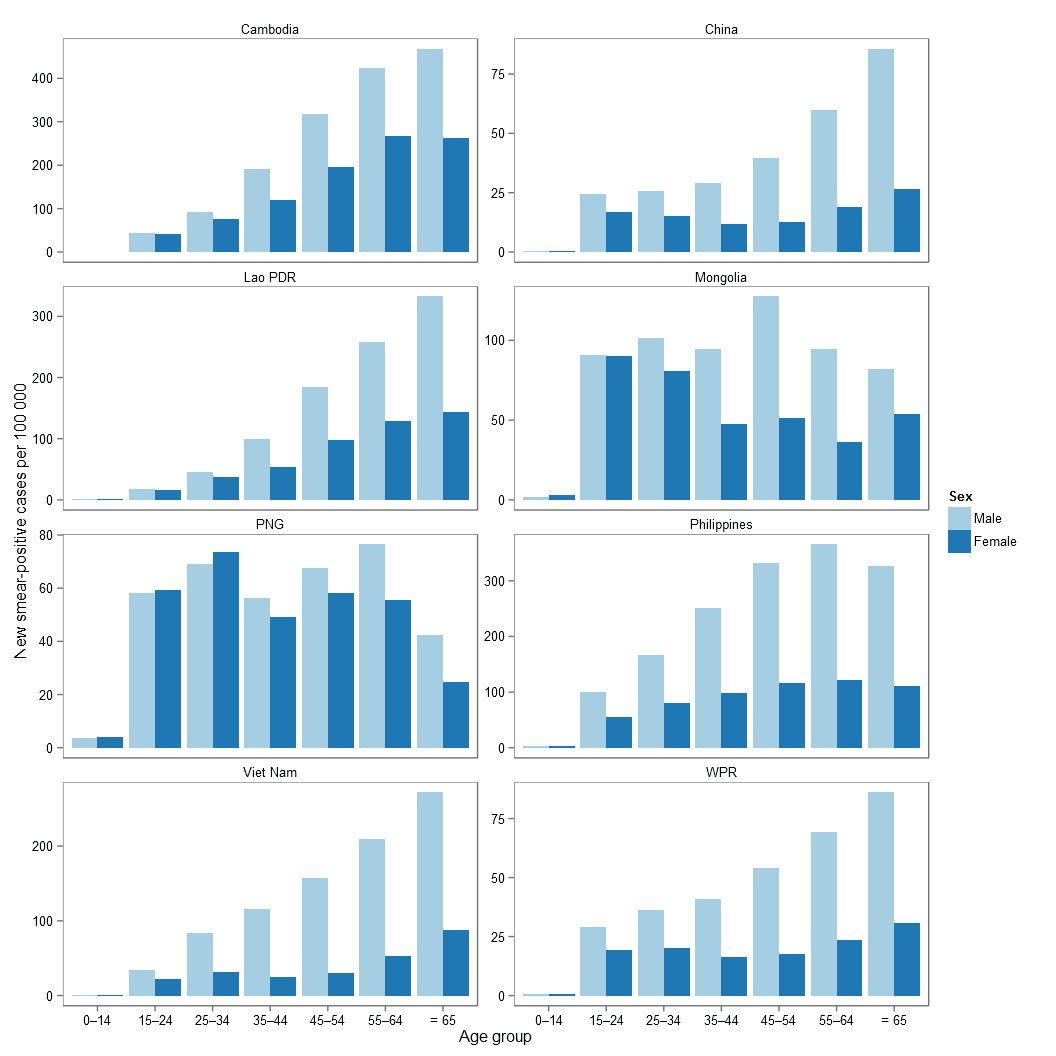
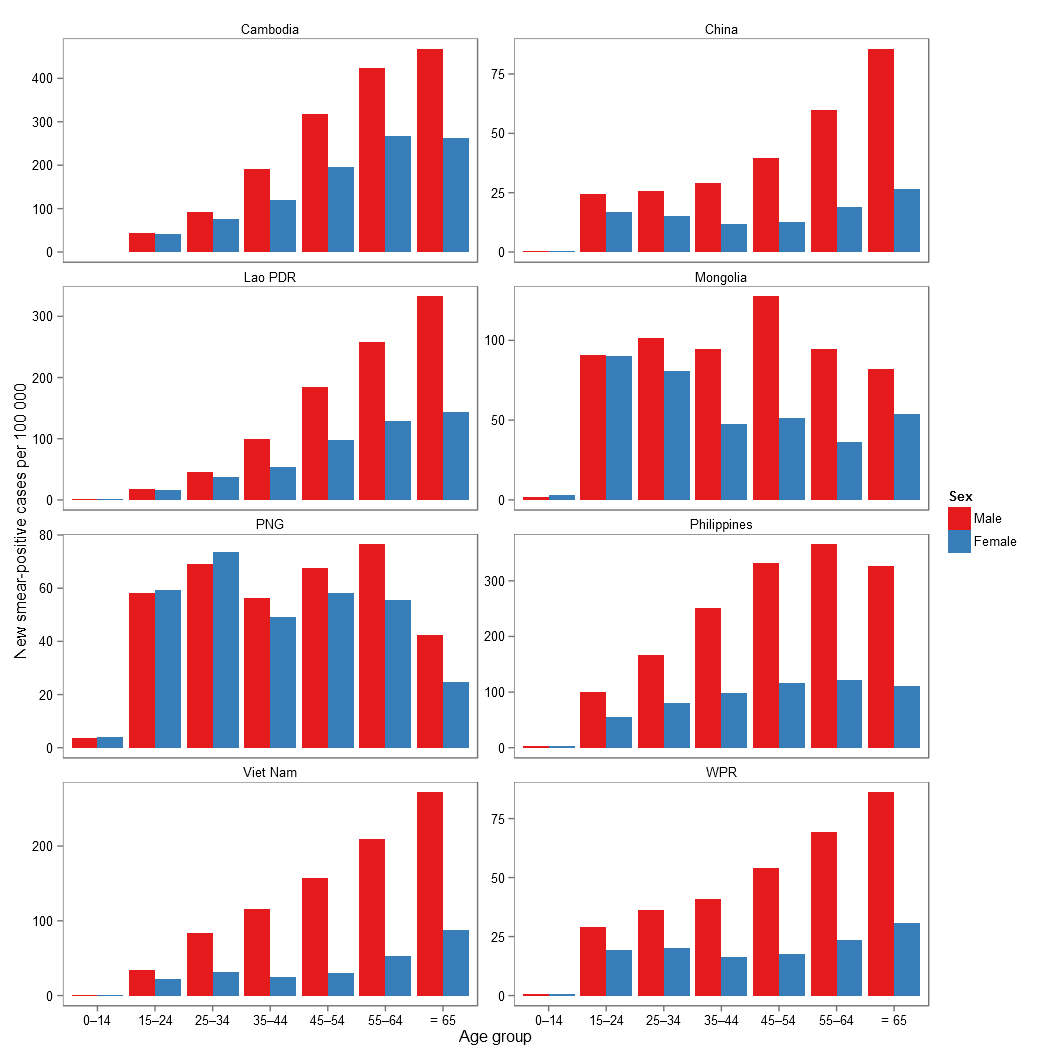
Added estimates graph, treatment outcomes and a custom theme.

diff --git a/RegTBfigsTables.html b/RegTBfigsTables.html
@@ -242,7 +242,7 @@ hr {
 
 <!-- html table generated in R 3.0.2 by xtable 1.7-1 package -->
 
-<!-- Fri Jan 17 15:30:54 2014 -->
+<!-- Mon Jan 20 22:18:36 2014 -->
 
 <TABLE border=0 rules=rows width=900 cellpadding=5>
   <TR> <TD colspan=2></TD> 
@@ -306,6 +306,12 @@ hr {
 
 <p><img src="figure/m_notif.png" alt="plot of chunk m.notif"/> </p>
 
+<p><a id="f.notif.trend"></a> </p>
+
+<h4 style='margin: 10pt 0pt 0pt 0pt;'>Figure NA Case notification rates per 100 000 population in countries and areas of the Western Pacific Region, 2000&ndash;2012.</h4>
+
+<p><img src="figure/f_notif_trend.png" alt="plot of chunk f.notif.trend"/> </p>
+
 <h2 style='margin: 10pt 0pt 0pt 0pt;'>Age and sex</h2>
 
 <p>The age distribution in 2012 follows an increasing pattern characteristic of an aging epidemic for all high-burden countries except Mongolia and Papua New Guinea (<a href="#f.agesex.bar">Figure 2</a>). Rates among females is less similar with rates in the ≥ 65 category lower than their younger counter-parts in many settings.</p>
@@ -324,9 +330,21 @@ hr {
 
 <p>As seen in <a href="#f.agesex">Figure 3</a> the trend is evident.</p>
 
-<p>And also as seen in <a href="#t.notif">Table 1</a> the trend is evident.</p>
+<h2 style='margin: 10pt 0pt 0pt 0pt;'>Treatment outcomes</h2>
+
+<p><a id="f.txout.bar"></a> </p>
+
+<h4 style='margin: 10pt 0pt 0pt 0pt;'>Figure NA Treatment outcomes for new smear-positive cases in the Region, 2000&ndash;2011.</h4>
+
+<p><img src="figure/f_txout_bar1.png" alt="plot of chunk f.txout.bar"/> <img src="figure/f_txout_bar2.png" alt="plot of chunk f.txout.bar"/> <img src="figure/f_txout_bar3.png" alt="plot of chunk f.txout.bar"/> </p>
 
 <h2 style='margin: 10pt 0pt 0pt 0pt;'>Discussion</h2>
+
+<p><a id="f.est.data"></a> </p>
+
+<h4 style='margin: 10pt 0pt 0pt 0pt;'>Figure NA Treatment outcomes for new smear-positive cases in the Region, 2000&ndash;2011.</h4>
+
+<p><img src="figure/f_est_data.png" alt="plot of chunk f.est.data"/> </p>
 
 <h2 style='margin: 10pt 0pt 0pt 0pt;'>Annex</h2>
 

diff --git a/RegTBfigsTables.md b/RegTBfigsTables.md
@@ -45,7 +45,7 @@ In 2012, national TB control programmes (NTPs) reported 1.4 million people with 
 <a id="t.notif"></a> 
 #### Table 1. Case notifications, 2012.
 <!-- html table generated in R 3.0.2 by xtable 1.7-1 package -->
-<!-- Fri Jan 17 15:30:54 2014 -->
+<!-- Mon Jan 20 22:18:36 2014 -->
 <TABLE border=0 rules=rows width=900 cellpadding=5>
   <TR> <TD colspan=2></TD> 
   <TH colspan=7>NEW CASES</TH> 
@@ -110,6 +110,12 @@ In 2012, national TB control programmes (NTPs) reported 1.4 million people with 
 ![plot of chunk m.notif](figure/m_notif.png) 
 
 
+
+<a id="f.notif.trend"></a> 
+#### Figure NA Case notification rates per 100 000 population in countries and areas of the Western Pacific Region, 2000--2012.
+![plot of chunk f.notif.trend](figure/f_notif_trend.png) 
+
+
 ## Age and sex
 
 
@@ -131,12 +137,25 @@ As seen in [Figure 3](#f.agesex) the trend is evident.
 
 
 
-And also as seen in [Table 1](#t.notif) the trend is evident.
+## Treatment outcomes
+
+<a id="f.txout.bar"></a> 
+#### Figure NA Treatment outcomes for new smear-positive cases in the Region, 2000--2011.
+![plot of chunk f.txout.bar](figure/f_txout_bar1.png) ![plot of chunk f.txout.bar](figure/f_txout_bar2.png) ![plot of chunk f.txout.bar](figure/f_txout_bar3.png) 
+
+
 
 
 
 Discussion
 --------------------------------------------------------
+
+<a id="f.est.data"></a> 
+#### Figure NA Treatment outcomes for new smear-positive cases in the Region, 2000--2011.
+![plot of chunk f.est.data](figure/f_est_data.png) 
+
+
+
 
 Annex
 --------------------------------------------------------
